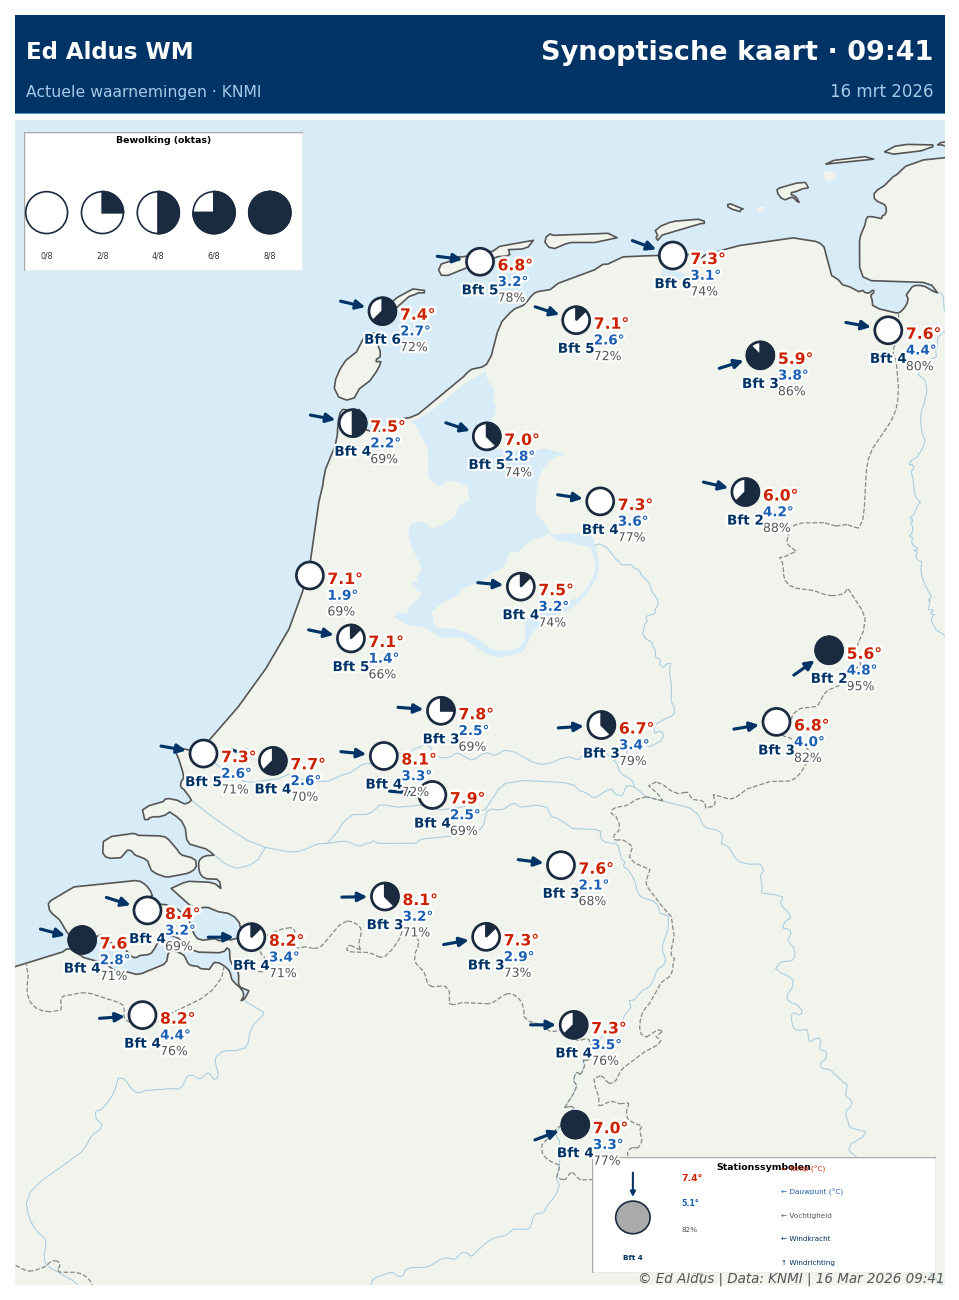
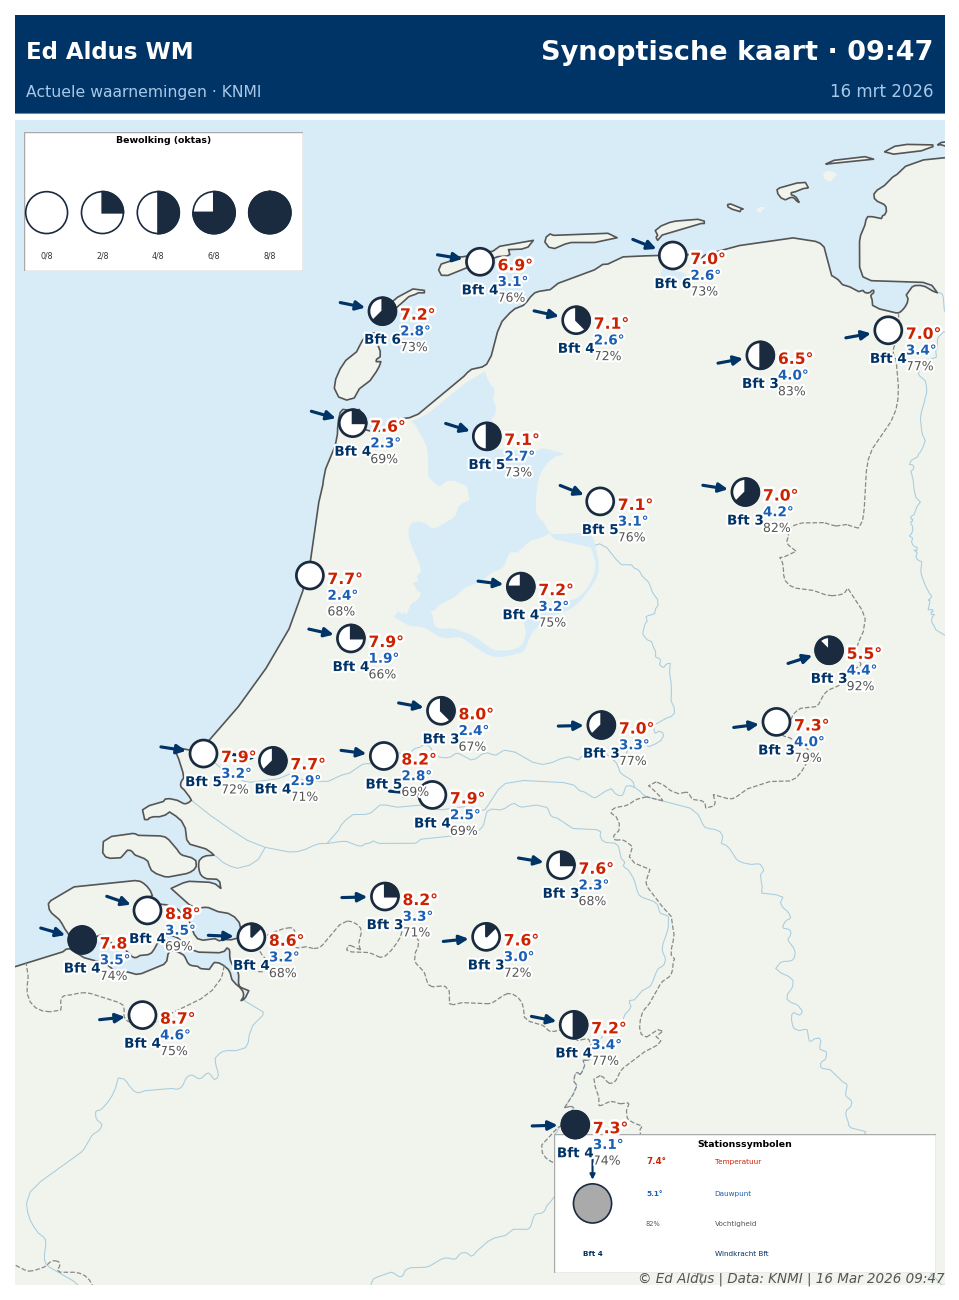
Synop: vochtigheid + legenda

diff --git a/maak_synop_kaart.py b/maak_synop_kaart.py
@@ -319,35 +319,32 @@ ax.text(1.0, 0.0, f"© Ed Aldus | Data: KNMI | {now_str2}",
         ha="right", va="bottom", color="#555555")
 
 # Symbolen legenda rechtsonder
-sym = ax.inset_axes([0.62, 0.01, 0.37, 0.10])
+sym = ax.inset_axes([0.58, 0.01, 0.41, 0.12])
 sym.set_xlim(0,1); sym.set_ylim(0,1); sym.axis("off")
 sym.add_patch(plt.Rectangle((0,0),1,1,facecolor="white",edgecolor="#aaaaaa",
               linewidth=0.7,transform=sym.transAxes,zorder=0))
-sym.text(0.5, 0.95, "Stationssymbolen", fontsize=4.5, weight="bold",
+sym.text(0.5, 0.96, "Stationssymbolen", fontsize=4.5, weight="bold",
          ha="center", va="top", transform=sym.transAxes)
-# Voorbeeldsymbool links
-sym.add_patch(mpatches.Ellipse((0.12, 0.48), 0.10, 0.28,
+# Bewolkingscirkel
+sym.add_patch(mpatches.Ellipse((0.10, 0.50), 0.10, 0.28,
               facecolor='#aaaaaa', edgecolor='#1a2b40', linewidth=0.8,
               zorder=1, transform=sym.transAxes))
-# Labels
-sym.text(0.26, 0.82, "7.4°", fontsize=4.5, color="#cc2200", weight="bold",
-         transform=sym.transAxes, va="center")
-sym.text(0.26, 0.60, "5.1°", fontsize=3.8, color="#1a5fb4", weight="bold",
-         transform=sym.transAxes, va="center")
-sym.text(0.26, 0.38, "82%", fontsize=3.5, color="#555555",
-         transform=sym.transAxes, va="center")
-sym.text(0.12, 0.14, "Bft 4", fontsize=3.5, color="#003366", weight="bold",
-         ha="center", transform=sym.transAxes, va="center")
-# Pijl
-sym.annotate("", xy=(0.12, 0.62), xytext=(0.12, 0.90),
+# Windpijl
+sym.annotate("", xy=(0.10, 0.64), xytext=(0.10, 0.88),
              xycoords=sym.transAxes, textcoords=sym.transAxes,
              arrowprops=dict(arrowstyle="-|>", color="#003366", lw=1.0, mutation_scale=5))
-# Rechts: uitleg
-sym.text(0.55, 0.88, "← Temp (°C)",    fontsize=3.5, color="#cc2200", transform=sym.transAxes)
-sym.text(0.55, 0.68, "← Dauwpunt (°C)",fontsize=3.5, color="#1a5fb4", transform=sym.transAxes)
-sym.text(0.55, 0.48, "← Vochtigheid",  fontsize=3.5, color="#555555", transform=sym.transAxes)
-sym.text(0.55, 0.28, "← Windkracht",   fontsize=3.5, color="#003366", transform=sym.transAxes)
-sym.text(0.55, 0.08, "↑ Windrichting", fontsize=3.5, color="#003366", transform=sym.transAxes)
+# Bft onder cirkel
+sym.text(0.10, 0.14, "Bft 4", fontsize=3.5, color="#003366", weight="bold",
+         ha="center", va="center", transform=sym.transAxes)
+# Waarden rechts van cirkel — ruim genoeg verdeeld
+sym.text(0.24, 0.80, "7.4°",  fontsize=4.2, color="#cc2200", weight="bold", transform=sym.transAxes, va="center")
+sym.text(0.24, 0.57, "5.1°",  fontsize=3.5, color="#1a5fb4", weight="bold", transform=sym.transAxes, va="center")
+sym.text(0.24, 0.36, "82%",   fontsize=3.2, color="#555555",               transform=sym.transAxes, va="center")
+# Uitleg labels
+sym.text(0.42, 0.80, "Temperatuur",   fontsize=3.5, color="#cc2200", transform=sym.transAxes, va="center")
+sym.text(0.42, 0.57, "Dauwpunt",      fontsize=3.5, color="#1a5fb4", transform=sym.transAxes, va="center")
+sym.text(0.42, 0.36, "Vochtigheid",   fontsize=3.5, color="#555555", transform=sym.transAxes, va="center")
+sym.text(0.42, 0.14, "Windkracht Bft",fontsize=3.5, color="#003366", transform=sym.transAxes, va="center")
 
 ax.set_extent(EXTENT, crs=ccrs.PlateCarree())
 ax.axis("off")
